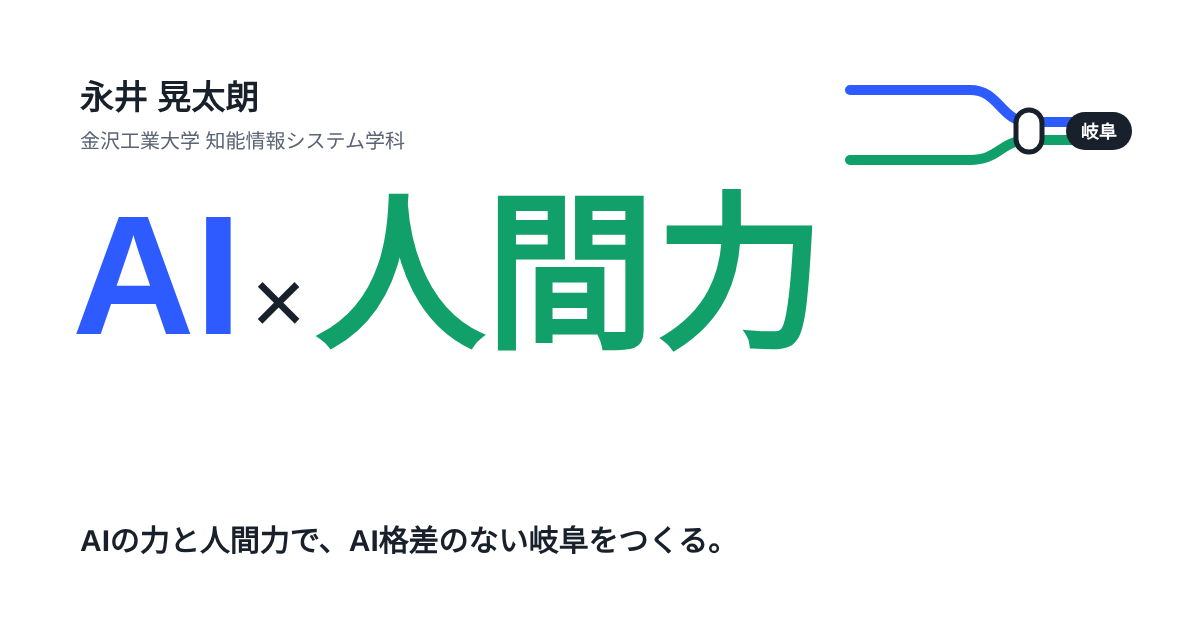
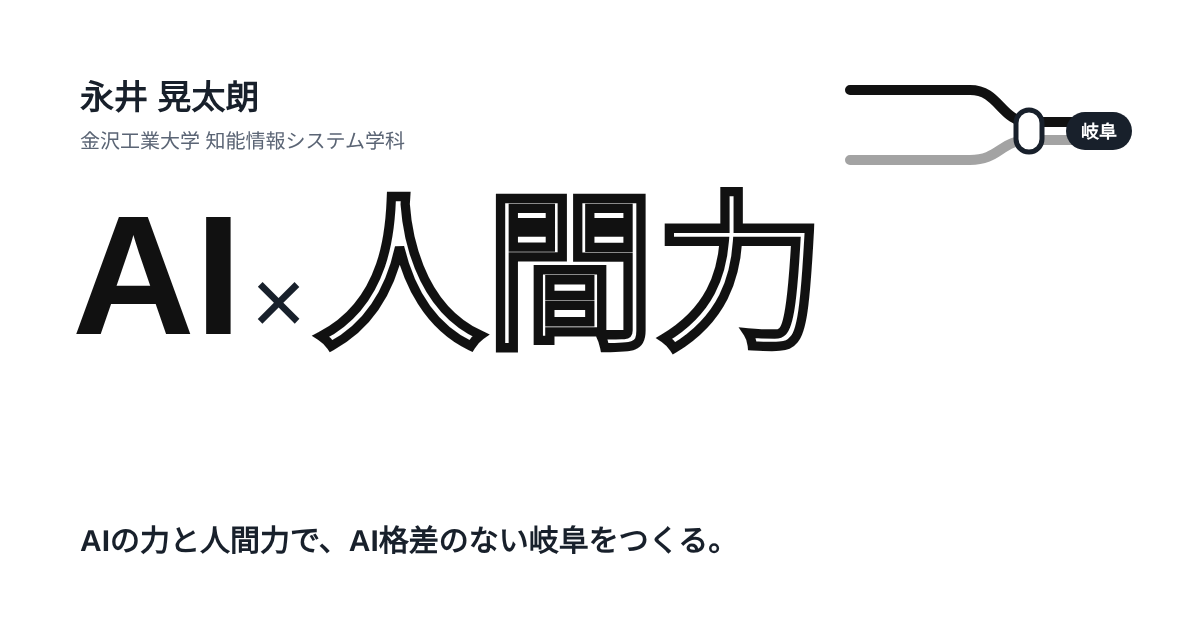
サイト全体を白黒基調のデザインに変更
Claude-Session: https://claude.ai/code/session_01Q8KcYkazFbKCwR22VqtSzh

diff --git a/index.html b/index.html
@@ -29,8 +29,8 @@
     --ink: #18202B;
     --sub: #5B6575;
     --rule: #DCE1E8;
-    --ai: #2E5BFF;
-    --hu: #12A06A;
+    --ai: #111111;
+    --hu: #A3A3A3;
     --ai-soft: #E8EEFF;
     --hu-soft: #E3F5EC;
     --jp: "Zen Kaku Gothic New", "Hiragino Sans", "Yu Gothic", sans-serif;
@@ -307,6 +307,35 @@
     .js .stop:not(.seen) .card { opacity: 1; transform: none; }
     .train { transition: none; }
   }
+
+  /* ===== モノクロテーマ ===== */
+  :root { --ink: #111111; --sub: #6B6B6B; --rule: #E3E3E3; --ai: #111111; --hu: #A3A3A3; --ai-soft: #F4F4F4; --hu-soft: #F4F4F4; }
+  ::selection { background: #111; color: #fff; }
+  .b-ai { color: #111; }
+  .b-hu { color: transparent; -webkit-text-stroke: 3px #111; }
+  @media (max-width: 640px) { .b-hu { -webkit-text-stroke: 2px #111; } }
+  .face { background: #F4F4F4; color: #111; box-shadow: 0 0 0 2px #111; }
+  .value h3, .value:nth-child(1) h3, .value:nth-child(2) h3, .value:nth-child(3) h3 { color: #111; }
+  .value:nth-child(2) h3 { color: transparent; -webkit-text-stroke: 1.2px #111; }
+  .value:last-child h3 { color: #fff; -webkit-text-stroke: 0; }
+  .ch-body blockquote { border-left-color: #111; background: #F4F4F4; }
+  .stop .card.themed, .stop .card.devfest { background: #fff; }
+  .stop .card.themed::after { filter: grayscale(1) contrast(1.1); opacity: .07; }
+  .stop .card.devfest::before { background: #111; }
+  .stop .card .award { background: #111; color: #fff; }
+  .stop.hu .card { border-left-color: #A3A3A3; }
+  img.logo, .stop .card h3 img, .card.hack img, .badges img { filter: grayscale(1); transition: filter .3s; }
+  .stop .card:hover h3 img { filter: none; }
+  .stop-photos img, .ch-photos img, .feature-shot img, .yt-thumb img { filter: grayscale(1); transition: filter .4s; }
+  .stop-photos img:hover, .ch-photos img:hover, .feature-shot img:hover, .yt-thumb:hover img { filter: none; }
+  .yt-play { background: #111; }
+  .feature .tag { color: #111; }
+  .feature-shot { background: #F4F4F4; }
+  .lec summary { color: #111; }
+  .lec details p { background: #F4F4F4; }
+  .btn.solid { background: #111; border-color: #111; }
+  .now .bar span, .terminal .plate { background: #111; }
+  @media (prefers-reduced-motion: reduce) { .stop-photos img, .ch-photos img { transition: none; } }
 </style>
 </head>
 <body>
@@ -345,17 +374,17 @@
         </div>
       </div>
       <svg class="hero-map" viewBox="0 0 420 300" role="img" aria-label="AIと人間力の2本の線が、金沢から岐阜へ向かって走る路線図">
-      <path d="M30 60 H170 C210 60 210 110 250 110 H330" fill="none" stroke="#2E5BFF" stroke-width="10" stroke-linecap="round"/>
-      <path d="M30 130 H120 C160 130 160 150 200 150 H250 C280 150 290 130 330 130" fill="none" stroke="#12A06A" stroke-width="10" stroke-linecap="round"/>
-      <path d="M330 110 C370 110 370 200 360 230" fill="none" stroke="#2E5BFF" stroke-width="10" stroke-linecap="round" stroke-dasharray="14 10"/>
-      <path d="M330 130 C350 130 352 200 342 230" fill="none" stroke="#12A06A" stroke-width="10" stroke-linecap="round" stroke-dasharray="14 10"/>
-      <circle cx="30" cy="60" r="11" fill="#fff" stroke="#2E5BFF" stroke-width="6"/>
-      <circle cx="30" cy="130" r="11" fill="#fff" stroke="#12A06A" stroke-width="6"/>
+      <path d="M30 60 H170 C210 60 210 110 250 110 H330" fill="none" stroke="#111111" stroke-width="10" stroke-linecap="round"/>
+      <path d="M30 130 H120 C160 130 160 150 200 150 H250 C280 150 290 130 330 130" fill="none" stroke="#A3A3A3" stroke-width="10" stroke-linecap="round"/>
+      <path d="M330 110 C370 110 370 200 360 230" fill="none" stroke="#111111" stroke-width="10" stroke-linecap="round" stroke-dasharray="14 10"/>
+      <path d="M330 130 C350 130 352 200 342 230" fill="none" stroke="#A3A3A3" stroke-width="10" stroke-linecap="round" stroke-dasharray="14 10"/>
+      <circle cx="30" cy="60" r="11" fill="#fff" stroke="#111111" stroke-width="6"/>
+      <circle cx="30" cy="130" r="11" fill="#fff" stroke="#A3A3A3" stroke-width="6"/>
       <rect x="236" y="96" width="28" height="68" rx="14" fill="#fff" stroke="#18202B" stroke-width="5"/>
       <rect x="306" y="236" width="80" height="44" rx="22" fill="#18202B"/>
       <text x="346" y="265" text-anchor="middle" font-family="Zen Kaku Gothic New, sans-serif" font-weight="900" font-size="18" fill="#fff">岐阜</text>
-      <text x="44" y="38" font-family="Zen Kaku Gothic New, sans-serif" font-weight="700" font-size="15" fill="#2E5BFF">AI</text>
-      <text x="44" y="166" font-family="Zen Kaku Gothic New, sans-serif" font-weight="700" font-size="15" fill="#12A06A">人間力</text>
+      <text x="44" y="38" font-family="Zen Kaku Gothic New, sans-serif" font-weight="700" font-size="15" fill="#111111">AI</text>
+      <text x="44" y="166" font-family="Zen Kaku Gothic New, sans-serif" font-weight="700" font-size="15" fill="#A3A3A3">人間力</text>
       <text x="250" y="190" text-anchor="middle" font-family="Zen Kaku Gothic New, sans-serif" font-size="13" fill="#5B6575">合流</text>
     </svg>
     </div>

diff --git a/en/index.html b/en/index.html
@@ -29,8 +29,8 @@
     --ink: #18202B;
     --sub: #5B6575;
     --rule: #DCE1E8;
-    --ai: #2E5BFF;
-    --hu: #12A06A;
+    --ai: #111111;
+    --hu: #A3A3A3;
     --ai-soft: #E8EEFF;
     --hu-soft: #E3F5EC;
     --jp: "Zen Kaku Gothic New", "Hiragino Sans", "Yu Gothic", sans-serif;
@@ -307,6 +307,35 @@
     .js .stop:not(.seen) .card { opacity: 1; transform: none; }
     .train { transition: none; }
   }
+
+  /* ===== モノクロテーマ ===== */
+  :root { --ink: #111111; --sub: #6B6B6B; --rule: #E3E3E3; --ai: #111111; --hu: #A3A3A3; --ai-soft: #F4F4F4; --hu-soft: #F4F4F4; }
+  ::selection { background: #111; color: #fff; }
+  .b-ai { color: #111; }
+  .b-hu { color: transparent; -webkit-text-stroke: 3px #111; }
+  @media (max-width: 640px) { .b-hu { -webkit-text-stroke: 2px #111; } }
+  .face { background: #F4F4F4; color: #111; box-shadow: 0 0 0 2px #111; }
+  .value h3, .value:nth-child(1) h3, .value:nth-child(2) h3, .value:nth-child(3) h3 { color: #111; }
+  .value:nth-child(2) h3 { color: transparent; -webkit-text-stroke: 1.2px #111; }
+  .value:last-child h3 { color: #fff; -webkit-text-stroke: 0; }
+  .ch-body blockquote { border-left-color: #111; background: #F4F4F4; }
+  .stop .card.themed, .stop .card.devfest { background: #fff; }
+  .stop .card.themed::after { filter: grayscale(1) contrast(1.1); opacity: .07; }
+  .stop .card.devfest::before { background: #111; }
+  .stop .card .award { background: #111; color: #fff; }
+  .stop.hu .card { border-left-color: #A3A3A3; }
+  img.logo, .stop .card h3 img, .card.hack img, .badges img { filter: grayscale(1); transition: filter .3s; }
+  .stop .card:hover h3 img { filter: none; }
+  .stop-photos img, .ch-photos img, .feature-shot img, .yt-thumb img { filter: grayscale(1); transition: filter .4s; }
+  .stop-photos img:hover, .ch-photos img:hover, .feature-shot img:hover, .yt-thumb:hover img { filter: none; }
+  .yt-play { background: #111; }
+  .feature .tag { color: #111; }
+  .feature-shot { background: #F4F4F4; }
+  .lec summary { color: #111; }
+  .lec details p { background: #F4F4F4; }
+  .btn.solid { background: #111; border-color: #111; }
+  .now .bar span, .terminal .plate { background: #111; }
+  @media (prefers-reduced-motion: reduce) { .stop-photos img, .ch-photos img { transition: none; } }
 </style>
 </head>
 <body>
@@ -345,17 +374,17 @@
         </div>
       </div>
       <svg class="hero-map" viewBox="0 0 420 300" role="img" aria-label="A route map where the AI line and the people line run from Kanazawa toward Gifu">
-      <path d="M30 60 H170 C210 60 210 110 250 110 H330" fill="none" stroke="#2E5BFF" stroke-width="10" stroke-linecap="round"/>
-      <path d="M30 130 H120 C160 130 160 150 200 150 H250 C280 150 290 130 330 130" fill="none" stroke="#12A06A" stroke-width="10" stroke-linecap="round"/>
-      <path d="M330 110 C370 110 370 200 360 230" fill="none" stroke="#2E5BFF" stroke-width="10" stroke-linecap="round" stroke-dasharray="14 10"/>
-      <path d="M330 130 C350 130 352 200 342 230" fill="none" stroke="#12A06A" stroke-width="10" stroke-linecap="round" stroke-dasharray="14 10"/>
-      <circle cx="30" cy="60" r="11" fill="#fff" stroke="#2E5BFF" stroke-width="6"/>
-      <circle cx="30" cy="130" r="11" fill="#fff" stroke="#12A06A" stroke-width="6"/>
+      <path d="M30 60 H170 C210 60 210 110 250 110 H330" fill="none" stroke="#111111" stroke-width="10" stroke-linecap="round"/>
+      <path d="M30 130 H120 C160 130 160 150 200 150 H250 C280 150 290 130 330 130" fill="none" stroke="#A3A3A3" stroke-width="10" stroke-linecap="round"/>
+      <path d="M330 110 C370 110 370 200 360 230" fill="none" stroke="#111111" stroke-width="10" stroke-linecap="round" stroke-dasharray="14 10"/>
+      <path d="M330 130 C350 130 352 200 342 230" fill="none" stroke="#A3A3A3" stroke-width="10" stroke-linecap="round" stroke-dasharray="14 10"/>
+      <circle cx="30" cy="60" r="11" fill="#fff" stroke="#111111" stroke-width="6"/>
+      <circle cx="30" cy="130" r="11" fill="#fff" stroke="#A3A3A3" stroke-width="6"/>
       <rect x="236" y="96" width="28" height="68" rx="14" fill="#fff" stroke="#18202B" stroke-width="5"/>
       <rect x="306" y="236" width="80" height="44" rx="22" fill="#18202B"/>
       <text x="346" y="265" text-anchor="middle" font-family="Zen Kaku Gothic New, sans-serif" font-weight="900" font-size="18" fill="#fff">Gifu</text>
-      <text x="44" y="38" font-family="Zen Kaku Gothic New, sans-serif" font-weight="700" font-size="15" fill="#2E5BFF">AI</text>
-      <text x="44" y="166" font-family="Zen Kaku Gothic New, sans-serif" font-weight="700" font-size="15" fill="#12A06A">People</text>
+      <text x="44" y="38" font-family="Zen Kaku Gothic New, sans-serif" font-weight="700" font-size="15" fill="#111111">AI</text>
+      <text x="44" y="166" font-family="Zen Kaku Gothic New, sans-serif" font-weight="700" font-size="15" fill="#A3A3A3">People</text>
       <text x="250" y="190" text-anchor="middle" font-family="Zen Kaku Gothic New, sans-serif" font-size="13" fill="#5B6575">Junction</text>
     </svg>
     </div>
